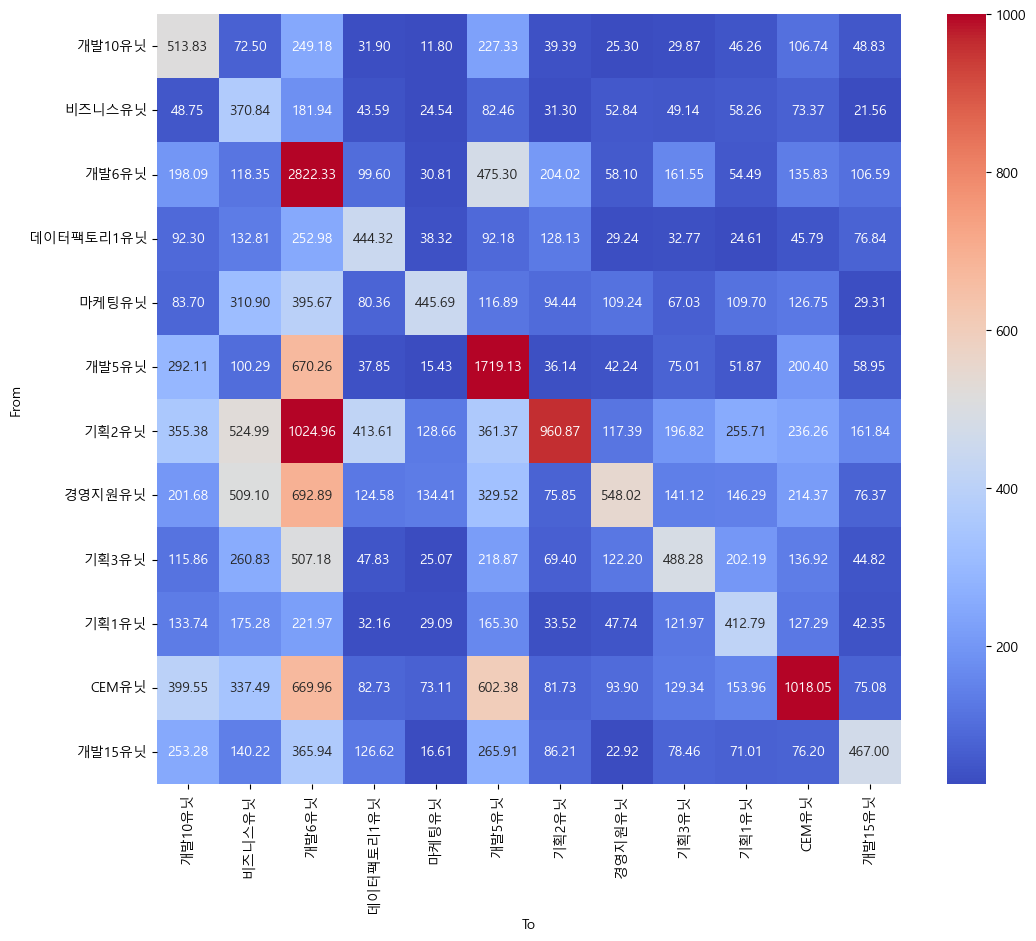
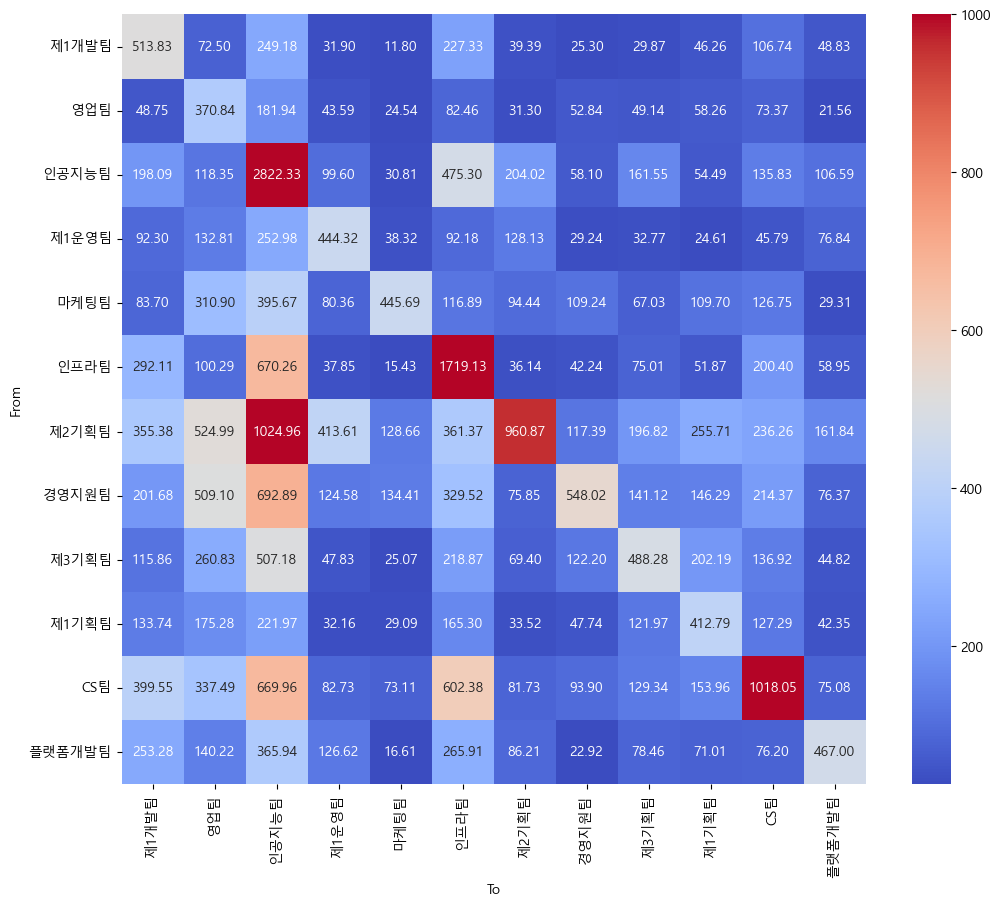
Built site for gh-pages

diff --git a/posts/2025-06-08-team_distance.html b/posts/2025-06-08-team_distance.html
@@ -214,8 +214,8 @@ window.Quarto = {
 <div class="quarto-title">
 <h1 class="title">Calculating ‘Team-Attention’ within Company using Viewer Statistics of Intranet Posts</h1>
   <div class="quarto-categories">
-    <div class="quarto-category">EXPERIMENTAL</div>
-    <div class="quarto-category">JUST-FOR-FUN</div>
+    <div class="quarto-category">Data Analysis</div>
+    <div class="quarto-category">Bits &amp; Bobs</div>
   </div>
   </div>
 
@@ -292,11 +292,11 @@ THIS IS IMPORTANT
 <div class="sourceCode cell-code" id="cb1"><pre class="sourceCode python code-with-copy"><code class="sourceCode python"><span id="cb1-1"><a href="#cb1-1" aria-hidden="true" tabindex="-1"></a><span class="im">import</span> math</span>
 <span id="cb1-2"><a href="#cb1-2" aria-hidden="true" tabindex="-1"></a><span class="im">import</span> re</span>
 <span id="cb1-3"><a href="#cb1-3" aria-hidden="true" tabindex="-1"></a><span class="im">from</span> collections <span class="im">import</span> defaultdict</span>
-<span id="cb1-4"><a href="#cb1-4" aria-hidden="true" tabindex="-1"></a><span class="im">from</span> pprint <span class="im">import</span> pprint</span>
-<span id="cb1-5"><a href="#cb1-5" aria-hidden="true" tabindex="-1"></a><span class="im">from</span> typing <span class="im">import</span> Dict</span>
-<span id="cb1-6"><a href="#cb1-6" aria-hidden="true" tabindex="-1"></a></span>
-<span id="cb1-7"><a href="#cb1-7" aria-hidden="true" tabindex="-1"></a><span class="im">import</span> networkx <span class="im">as</span> nx</span>
-<span id="cb1-8"><a href="#cb1-8" aria-hidden="true" tabindex="-1"></a><span class="im">import</span> numpy <span class="im">as</span> np</span>
+<span id="cb1-4"><a href="#cb1-4" aria-hidden="true" tabindex="-1"></a><span class="im">from</span> typing <span class="im">import</span> Dict</span>
+<span id="cb1-5"><a href="#cb1-5" aria-hidden="true" tabindex="-1"></a></span>
+<span id="cb1-6"><a href="#cb1-6" aria-hidden="true" tabindex="-1"></a><span class="im">import</span> networkx <span class="im">as</span> nx</span>
+<span id="cb1-7"><a href="#cb1-7" aria-hidden="true" tabindex="-1"></a><span class="im">import</span> numpy <span class="im">as</span> np</span>
+<span id="cb1-8"><a href="#cb1-8" aria-hidden="true" tabindex="-1"></a><span class="im">import</span> matplotlib.pyplot <span class="im">as</span> plt</span>
 <span id="cb1-9"><a href="#cb1-9" aria-hidden="true" tabindex="-1"></a><span class="im">import</span> pandas <span class="im">as</span> pd</span>
 <span id="cb1-10"><a href="#cb1-10" aria-hidden="true" tabindex="-1"></a><span class="im">import</span> seaborn <span class="im">as</span> sns</span></code><button title="Copy to Clipboard" class="code-copy-button"><i class="bi"></i></button></pre></div>
 </div>
@@ -378,7 +378,7 @@ THIS IS IMPORTANT
 <i class="callout-icon"></i>
 </div>
 <div class="callout-title-container flex-fill">
-NOTE
+Note
 </div>
 </div>
 <div class="callout-body-container callout-body">
@@ -591,7 +591,7 @@ Note
 </div>
 <p>조회수 데이터는 다음과 같이 파싱되어 있습니다:</p>
 <div id="cell-47" class="cell" data-execution_count="26">
-<div class="sourceCode cell-code" id="cb20"><pre class="sourceCode python code-with-copy"><code class="sourceCode python"><span id="cb20-1"><a href="#cb20-1" aria-hidden="true" tabindex="-1"></a>pprint(data.iloc[<span class="dv">0</span>][<span class="st">"readers"</span>][:<span class="dv">5</span>])</span>
+<div class="sourceCode cell-code" id="cb20"><pre class="sourceCode python code-with-copy"><code class="sourceCode python"><span id="cb20-1"><a href="#cb20-1" aria-hidden="true" tabindex="-1"></a><span class="bu">print</span>(data.iloc[<span class="dv">0</span>][<span class="st">"readers"</span>][:<span class="dv">5</span>])</span>
 <span id="cb20-2"><a href="#cb20-2" aria-hidden="true" tabindex="-1"></a><span class="bu">print</span>(<span class="st">"..."</span>)</span></code><button title="Copy to Clipboard" class="code-copy-button"><i class="bi"></i></button></pre></div>
 <div class="cell-output cell-output-stdout">
 <pre><code>[{'count': 233, 'name': '이현우', 'unit': '제1개발팀'},
@@ -639,7 +639,7 @@ Note
 </div>
 <p>위를 실행하면 조회수가 다음과 같이 0 ~ 10 범위로 정규화됩니다:</p>
 <div id="cell-56" class="cell" data-execution_count="30">
-<div class="sourceCode cell-code" id="cb25"><pre class="sourceCode python code-with-copy"><code class="sourceCode python"><span id="cb25-1"><a href="#cb25-1" aria-hidden="true" tabindex="-1"></a>pprint(data.iloc[<span class="dv">0</span>][<span class="st">"readers"</span>][:<span class="dv">5</span>])</span>
+<div class="sourceCode cell-code" id="cb25"><pre class="sourceCode python code-with-copy"><code class="sourceCode python"><span id="cb25-1"><a href="#cb25-1" aria-hidden="true" tabindex="-1"></a><span class="bu">print</span>(data.iloc[<span class="dv">0</span>][<span class="st">"readers"</span>][:<span class="dv">5</span>])</span>
 <span id="cb25-2"><a href="#cb25-2" aria-hidden="true" tabindex="-1"></a><span class="bu">print</span>(<span class="st">"..."</span>)</span></code><button title="Copy to Clipboard" class="code-copy-button"><i class="bi"></i></button></pre></div>
 <div class="cell-output cell-output-stdout">
 <pre><code>[{'count': np.float64(10.0), 'name': '이현우', 'unit': '제1개발팀'},
@@ -699,13 +699,12 @@ Note
 <h1>6. 시각화 분석</h1>
 <p>이제 계산은 완료되었습니다! 이어서 결과를 시각화해봅니다.</p>
 <div id="cell-70" class="cell" data-execution_count="36">
-<div class="sourceCode cell-code" id="cb32"><pre class="sourceCode python code-with-copy"><code class="sourceCode python"><span id="cb32-1"><a href="#cb32-1" aria-hidden="true" tabindex="-1"></a><span class="im">import</span> matplotlib.pyplot <span class="im">as</span> plt</span>
-<span id="cb32-2"><a href="#cb32-2" aria-hidden="true" tabindex="-1"></a><span class="im">import</span> matplotlib.font_manager <span class="im">as</span> fm</span>
-<span id="cb32-3"><a href="#cb32-3" aria-hidden="true" tabindex="-1"></a></span>
-<span id="cb32-4"><a href="#cb32-4" aria-hidden="true" tabindex="-1"></a>font_path <span class="op">=</span> <span class="st">"C:/Windows/Fonts/malgun.ttf"</span></span>
-<span id="cb32-5"><a href="#cb32-5" aria-hidden="true" tabindex="-1"></a>fontprop <span class="op">=</span> fm.FontProperties(fname<span class="op">=</span>font_path)</span>
-<span id="cb32-6"><a href="#cb32-6" aria-hidden="true" tabindex="-1"></a>plt.rcParams[<span class="st">'font.family'</span>] <span class="op">=</span> <span class="st">'Malgun Gothic'</span></span>
-<span id="cb32-7"><a href="#cb32-7" aria-hidden="true" tabindex="-1"></a>plt.rcParams[<span class="st">'axes.unicode_minus'</span>] <span class="op">=</span> <span class="va">False</span></span></code><button title="Copy to Clipboard" class="code-copy-button"><i class="bi"></i></button></pre></div>
+<div class="sourceCode cell-code" id="cb32"><pre class="sourceCode python code-with-copy"><code class="sourceCode python"><span id="cb32-1"><a href="#cb32-1" aria-hidden="true" tabindex="-1"></a><span class="im">import</span> matplotlib.font_manager <span class="im">as</span> fm</span>
+<span id="cb32-2"><a href="#cb32-2" aria-hidden="true" tabindex="-1"></a></span>
+<span id="cb32-3"><a href="#cb32-3" aria-hidden="true" tabindex="-1"></a>font_path <span class="op">=</span> <span class="st">"C:/Windows/Fonts/malgun.ttf"</span></span>
+<span id="cb32-4"><a href="#cb32-4" aria-hidden="true" tabindex="-1"></a>fontprop <span class="op">=</span> fm.FontProperties(fname<span class="op">=</span>font_path)</span>
+<span id="cb32-5"><a href="#cb32-5" aria-hidden="true" tabindex="-1"></a>plt.rcParams[<span class="st">'font.family'</span>] <span class="op">=</span> <span class="st">'Malgun Gothic'</span></span>
+<span id="cb32-6"><a href="#cb32-6" aria-hidden="true" tabindex="-1"></a>plt.rcParams[<span class="st">'axes.unicode_minus'</span>] <span class="op">=</span> <span class="va">False</span></span></code><button title="Copy to Clipboard" class="code-copy-button"><i class="bi"></i></button></pre></div>
 </div>
 <p>먼저 각 팀 사이의 관심도(<code>unit_avg_attentions</code>)를 히트맵으로 시각화합니다. (시각화 효과를 위해서 특정한 범위의 스케일링을 적용하였습니다)</p>
 <div id="cell-72" class="cell" data-execution_count="37">

diff --git a/blog.html b/blog.html
@@ -183,7 +183,7 @@ window.Quarto = {
 <!-- sidebar -->
 <!-- margin-sidebar -->
     <div id="quarto-margin-sidebar" class="sidebar margin-sidebar">
-    <h5 class="quarto-listing-category-title">Categories</h5><div class="quarto-listing-category category-default"><div class="category" data-category="">All <span class="quarto-category-count">(1)</span></div><div class="category" data-category="RVhQRVJJTUVOVEFM">EXPERIMENTAL <span class="quarto-category-count">(1)</span></div><div class="category" data-category="SlVTVC1GT1ItRlVO">JUST-FOR-FUN <span class="quarto-category-count">(1)</span></div></div></div>
+    <h5 class="quarto-listing-category-title">Categories</h5><div class="quarto-listing-category category-default"><div class="category" data-category="">All <span class="quarto-category-count">(1)</span></div><div class="category" data-category="Qml0cyUyMCUyNiUyMEJvYnM=">Bits &amp; Bobs <span class="quarto-category-count">(1)</span></div><div class="category" data-category="RGF0YSUyMEFuYWx5c2lz">Data Analysis <span class="quarto-category-count">(1)</span></div></div></div>
 <!-- main -->
 <main class="content column-page-left" id="quarto-document-content">
 
@@ -234,7 +234,7 @@ window.Quarto = {
     </div>
 </div>
 <div class="list quarto-listing-default">
-<div class="quarto-post image-left" data-index="0" data-categories="RVhQRVJJTUVOVEFMJTJDSlVTVC1GT1ItRlVO" data-listing-date-sort="1749308400000" data-listing-file-modified-sort="1749548806821" data-listing-date-modified-sort="NaN" data-listing-reading-time-sort="7" data-listing-word-count-sort="1388">
+<div class="quarto-post image-left" data-index="0" data-categories="RGF0YSUyMEFuYWx5c2lzJTJDQml0cyUyMCUyNiUyMEJvYnM=" data-listing-date-sort="1749308400000" data-listing-file-modified-sort="1750480868205" data-listing-date-modified-sort="NaN" data-listing-reading-time-sort="7" data-listing-word-count-sort="1387">
 <div class="thumbnail"><a href="./posts/2025-06-08-team_distance.html" class="no-external">
 
 <img loading="lazy" src="./images/post_250608_team_distance/heatmap.png" class="thumbnail-image">

diff --git a/index.html b/index.html
@@ -253,7 +253,7 @@ window.Quarto = {
 <p>Click <a href="./blog.html">here</a> to check out the latest on the blog.</p>
 <div id="listing-landing-posts" class="quarto-listing quarto-listing-container-default">
 <div class="list quarto-listing-default">
-<div class="quarto-post image-right" data-index="0" data-categories="RVhQRVJJTUVOVEFMJTJDSlVTVC1GT1ItRlVO" data-listing-date-sort="1749308400000" data-listing-file-modified-sort="1749548806821" data-listing-date-modified-sort="NaN" data-listing-reading-time-sort="7" data-listing-word-count-sort="1388">
+<div class="quarto-post image-right" data-index="0" data-categories="RGF0YSUyMEFuYWx5c2lzJTJDQml0cyUyMCUyNiUyMEJvYnM=" data-listing-date-sort="1749308400000" data-listing-file-modified-sort="1750480868205" data-listing-date-modified-sort="NaN" data-listing-reading-time-sort="7" data-listing-word-count-sort="1387">
 <div class="thumbnail"><a href="./posts/2025-06-08-team_distance.html" class="no-external">
 
 <img loading="lazy" src="./images/post_250608_team_distance/heatmap.png" class="thumbnail-image">
